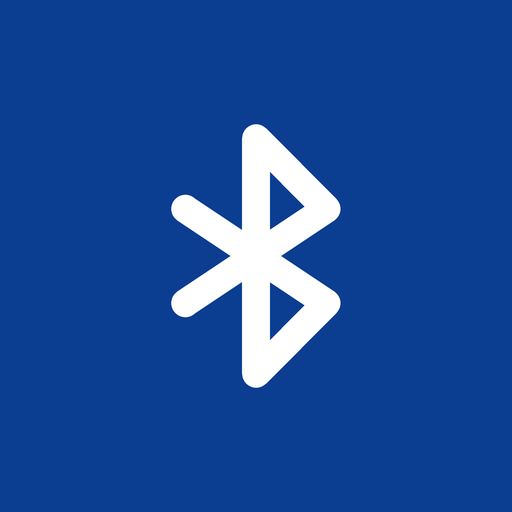
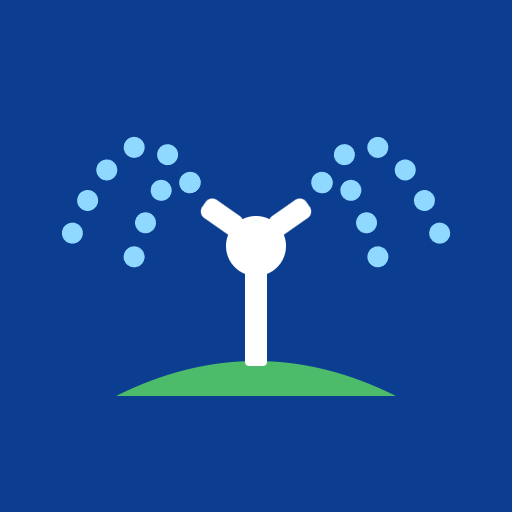
アイコンデータを追加し、サービスワーカーのキャッシュバージョンをv10に更新

Changed region(s): [[0.1875, 0.2188, 0.8125, 0.7812], [0.8125, 0.375, 0.875, 0.5], [0.125, 0.375, 0.1875, 0.5]]

diff --git a/service-worker.js b/service-worker.js
@@ -1,6 +1,6 @@
 // アプリシェルをキャッシュしてオフラインでも起動できるようにする。
 // 配信ファイルを変更したら CACHE_VERSION を上げること。
-const CACHE_VERSION = 'v9';
+const CACHE_VERSION = 'v10';
 const CACHE_NAME = `esp32-splinkler-${CACHE_VERSION}`;
 
 // GitHub Pages のプロジェクトページ（/リポジトリ名/ 配下）でも動くよう相対パスで指定する
